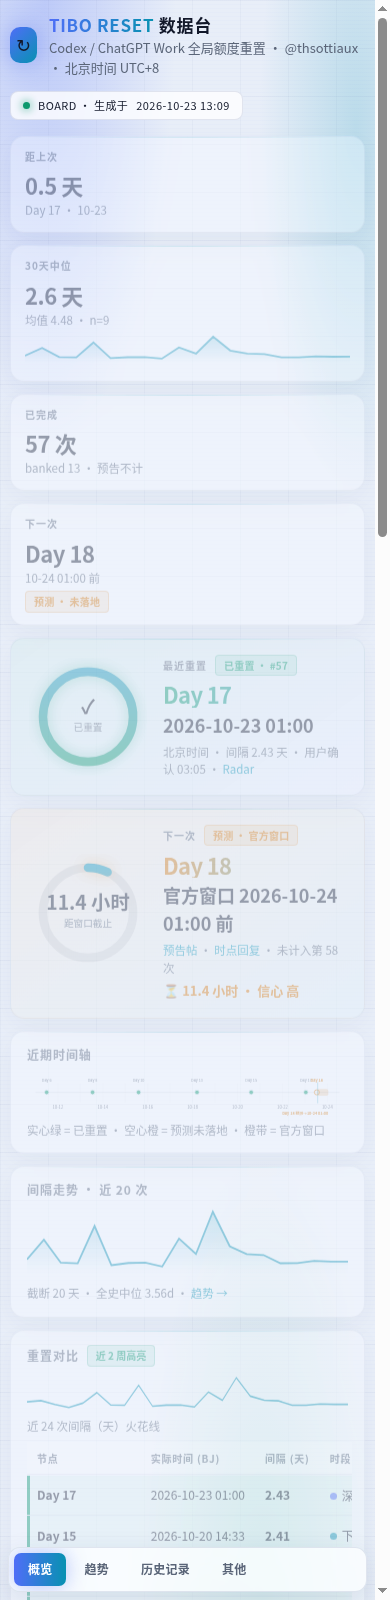
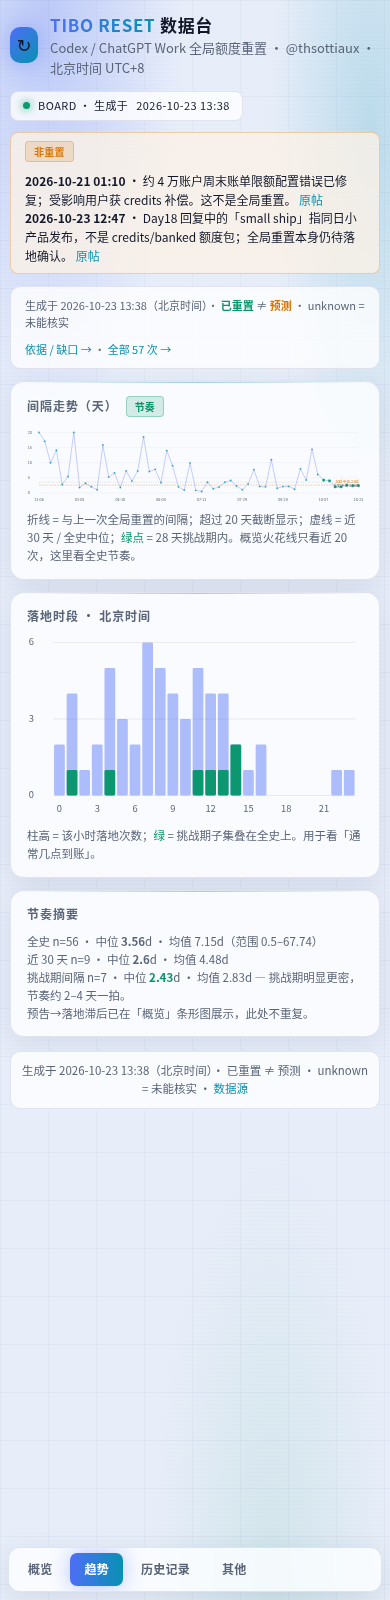
Trends: interval line + BJ hour histogram (replace weak bar chart)
Overview already has gap sparkline, comparison table, and teaser→lag bars.
Trends now shows full-history interval rhythm (line, challenge dots, dual medians)
and Beijing hour-of-day distribution — patterns the table does not show at a glance.

diff --git a/index.html b/index.html
@@ -127,7 +127,9 @@ details.fold{margin-top:6px}details.fold summary{cursor:pointer;color:var(--mut)
  <div data-tab="overview" class="banner" id="note"></div>
  <div data-tab="overview" class="ov-foot" id="ovfoot"></div>
  <!-- Other tabs -->
- <section data-tab="trend" class="c mag"><h2>重置间隔趋势（天）</h2><div id="chart"></div><div class="q">柱 = 与上一次全局重置的间隔（近 40 次）；虚线 = 近 30 天中位数；<span style="color:var(--ok)">绿色</span> = 28 天挑战期内；超过 20 天的柱被截断。banked reset 不计入。</div></section>
+ <section data-tab="trend" class="c mag s8"><h2>间隔走势（天） <span class="tag ok">节奏</span></h2><div id="chartGap"></div><div class="q">折线 = 与上一次全局重置的间隔；超过 20 天截断显示；虚线 = 近 30 天 / 全史中位；<span style="color:var(--ok)">绿点</span> = 28 天挑战期内。概览火花线只看近 20 次，这里看全史节奏。</div></section>
+ <section data-tab="trend" class="c mag s4"><h2>落地时段 · 北京时间</h2><div id="chartHour"></div><div class="q">柱高 = 该小时落地次数；<span style="color:var(--ok)">绿</span> = 挑战期子集叠在全史上。用于看「通常几点到账」。</div></section>
+ <section data-tab="trend" class="c mag"><h2>节奏摘要</h2><div id="trendSum" class="q"></div></section>
  <section data-tab="history" class="c"><h2>历史记录 <span class="q" id="cnt"></span></h2>
   <div class="flt" style="margin-bottom:10px"><button class="on" data-f="all">全部</button><button data-f="ch">有预告帖</button><button data-f="win">有官方窗口</button></div>
   <div class="tl" id="tb"></div></section>
@@ -1748,13 +1750,45 @@ $('#tb').innerHTML=pendHtml+ev.map(r=>`<div class="ev ${r.label&&r.label.startsW
 <div><div class="lab">实际时间</div>${r.actual_bj}<div class="q">${r.actual_basis}</div>${r.confirmation?`<div class="q">确认 ${lk(r.confirmation.url,r.confirmation.time_bj)}</div>`:''}${r.lag_teaser_h!=null?`<div class="q">预告后 ${r.lag_teaser_h} h</div>`:''}</div>
 <div><div class="lab">偏差</div>${fmt(r.dev_h)}<div class="lab" style="margin-top:4px">间隔</div>${r.gap_days!=null?r.gap_days+' 天':'—'}</div></div>`).join('')}
 rows('all');document.querySelectorAll('.flt button').forEach(b=>b.onclick=()=>{document.querySelectorAll('.flt button').forEach(x=>x.classList.remove('on'));b.classList.add('on');rows(b.dataset.f)});
-// Chart
-const g=D.events.filter(r=>r.gap_days!=null).slice(-40),W=1100,H=220,pl=28,pb=32,mx=Math.min(20,Math.max(...g.map(r=>r.gap_days))),bw=(W-pl)/g.length,y=v=>H-pb-(Math.min(v,mx)/mx)*(H-pb-8);
-let s=`<svg viewBox="0 0 ${W} ${H}" width="100%"><defs><linearGradient id="gr" x1="0" y1="0" x2="0" y2="1"><stop offset="0" stop-color="var(--acc2)"/><stop offset="1" stop-color="var(--acc)"/></linearGradient></defs>`;
-[0,5,10,15,20].filter(t=>t<=mx).forEach(t=>s+=`<line x1=${pl} x2=${W} y1=${y(t)} y2=${y(t)} stroke="currentColor" opacity=".08"/><text x=0 y=${y(t)+3}>${t}</text>`);
-g.forEach((r,i)=>{const x=pl+i*bw;s+=`<rect x=${x+1.5} y=${y(r.gap_days)} width=${bw-3} height=${H-pb-y(r.gap_days)} rx=2 fill="${r.label&&r.label.startsWith('Day')?'var(--ok)':'url(#gr)'}"><title>${r.actual_bj}：${r.gap_days} 天</title></rect>`;if(i%4==0||i==g.length-1)s+=`<text x=${x} y=${H-16}>${r.actual_bj.slice(5,10)}</text>`});
-s+=`<line x1=${pl} x2=${W} y1=${y(S.median)} y2=${y(S.median)} stroke="var(--warn)" stroke-dasharray="4 3"/><text x=${W-120} y=${y(S.median)-4} style="fill:var(--warn)">30天中位 ${S.median}d</text></svg>`;
-$('#chart').innerHTML=s;
+// Trend charts — interval line + BJ hour histogram (complement overview; not a duplicate of 对比表)
+{const gaps=D.events.filter(r=>r.gap_days!=null);
+ const W=900,H=210,pl=32,pr=12,pt=12,pb=36,mx=20;
+ const x=i=>pl+i/(gaps.length-1||1)*(W-pl-pr);
+ const y=v=>pt+(1-Math.min(v,mx)/mx)*(H-pt-pb);
+ let s=`<svg viewBox="0 0 ${W} ${H}" width="100%" role="img" aria-label="重置间隔折线">`;
+ [0,5,10,15,20].forEach(t=>s+=`<line x1=${pl} x2=${W-pr} y1=${y(t)} y2=${y(t)} stroke="currentColor" opacity=".08"/><text x=2 y=${y(t)+3}>${t}</text>`);
+ const pts=gaps.map((r,i)=>`${x(i)},${y(r.gap_days)}`).join(' ');
+ s+=`<polyline fill="none" stroke="var(--acc)" stroke-width="1.6" opacity=".55" points="${pts}"/>`;
+ gaps.forEach((r,i)=>{const ch=(r.label||'').startsWith('Day');
+  s+=`<circle cx=${x(i)} cy=${y(r.gap_days)} r="${ch?4.2:2.6}" fill="${ch?'var(--ok)':'var(--acc2)'}" stroke="var(--bg)" stroke-width="1"><title>${r.actual_bj} ${(r.label||'')}：${r.gap_days} 天</title></circle>`;
+  if(i%Math.max(1,Math.floor(gaps.length/8))===0||i===gaps.length-1)s+=`<text x=${x(i)} y=${H-14} text-anchor="middle">${r.actual_bj.slice(5,10)}</text>`;
+ });
+ s+=`<line x1=${pl} x2=${W-pr} y1=${y(S.median)} y2=${y(S.median)} stroke="var(--warn)" stroke-dasharray="4 3"/>`;
+ s+=`<text x=${W-pr} y=${y(S.median)-5} text-anchor="end" style="fill:var(--warn)">30d 中位 ${S.median}d</text>`;
+ s+=`<line x1=${pl} x2=${W-pr} y1=${y(A.median)} y2=${y(A.median)} stroke="var(--mut)" stroke-dasharray="2 4" opacity=".7"/>`;
+ s+=`<text x=${W-pr} y=${y(A.median)+12} text-anchor="end" style="fill:var(--mut)">全史中位 ${A.median}d</text></svg>`;
+ $('#chartGap').innerHTML=s;
+ const chGaps=gaps.filter(r=>(r.label||'').startsWith('Day')).map(r=>r.gap_days);
+ const chMed=chGaps.length?chGaps.slice().sort((a,b)=>a-b)[Math.floor(chGaps.length/2)]:null;
+ $('#trendSum').innerHTML=`全史 n=${gaps.length} · 中位 <b>${A.median}</b>d · 均值 ${A.mean}d（范围 ${A.min}–${A.max}）<br>
+近 30 天 n=${S.n} · 中位 <b>${S.median}</b>d · 均值 ${S.mean}d<br>
+挑战期间隔 n=${chGaps.length}${chMed!=null?` · 中位 <b style="color:var(--ok)">${chMed}</b>d · 均值 ${(chGaps.reduce((a,b)=>a+b,0)/chGaps.length).toFixed(2)}d`:''} — 挑战期明显更密，节奏约 2–4 天一拍。<br>
+<span class="q">预告→落地滞后已在「概览」条形图展示，此处不重复。</span>`;}
+
+{const hours=Array.from({length:24},(_,h)=>h);
+ const all=hours.map(h=>0), ch=hours.map(h=>0);
+ D.events.forEach(r=>{const h=parseInt((r.actual_bj||'').slice(11,13),10);if(isNaN(h))return;all[h]++;if((r.label||'').startsWith('Day'))ch[h]++});
+ const mx=Math.max(...all,1),W=360,H=200,pl=28,pb=28,pt=8,pr=8,bw=(W-pl-pr)/24;
+ const y=v=>pt+(1-v/mx)*(H-pt-pb);
+ let s=`<svg viewBox="0 0 ${W} ${H}" width="100%" role="img" aria-label="北京时间落地小时分布">`;
+ [0,Math.ceil(mx/2),mx].filter((v,i,a)=>a.indexOf(v)===i).forEach(t=>s+=`<line x1=${pl} x2=${W-pr} y1=${y(t)} y2=${y(t)} stroke="currentColor" opacity=".08"/><text x=2 y=${y(t)+3}>${t}</text>`);
+ hours.forEach(h=>{const x=pl+h*bw;
+  s+=`<rect x=${x+1} y=${y(all[h])} width=${bw-2} height=${Math.max(0,H-pb-y(all[h]))} rx=1.5 fill="var(--acc)" opacity=".45"><title>${h}:00 BJ · 全史 ${all[h]} 次</title></rect>`;
+  if(ch[h])s+=`<rect x=${x+1} y=${y(ch[h])} width=${bw-2} height=${Math.max(0,H-pb-y(ch[h]))} rx=1.5 fill="var(--ok)" opacity=".95"><title>${h}:00 BJ · 挑战期 ${ch[h]} 次</title></rect>`;
+  if(h%3===0)s+=`<text x=${x+bw/2} y=${H-10} text-anchor="middle">${h}</text>`;
+ });
+ s+=`</svg>`;
+ $('#chartHour').innerHTML=s;}
 $('#bk').innerHTML=D.banked.map(b=>`<div><b>${b.date_bj}</b> · ${b.summary}<br>${b.url?lk(b.url,'原帖'):'<span class="u">无 X 原帖（Radar 实测）</span>'}</div>`).join('');
 $('#gaps').innerHTML=D.gaps.map(x=>`<li>${x}</li>`).join('');
 $('#nr').innerHTML=`<h2>近期非重置公告</h2>${(D.non_reset||[]).map(n=>`<div class="q" style="margin-bottom:8px"><b>${n.date_bj}</b> · ${n.kind||''}<br>${n.summary}<br>${lk(n.url,'原帖')} · <span class="tag">未计入全局重置</span></div>`).join('')||'<div class="q">暂无</div>'}`;

diff --git a/tpl.html b/tpl.html
@@ -127,7 +127,9 @@ details.fold{margin-top:6px}details.fold summary{cursor:pointer;color:var(--mut)
  <div data-tab="overview" class="banner" id="note"></div>
  <div data-tab="overview" class="ov-foot" id="ovfoot"></div>
  <!-- Other tabs -->
- <section data-tab="trend" class="c mag"><h2>重置间隔趋势（天）</h2><div id="chart"></div><div class="q">柱 = 与上一次全局重置的间隔（近 40 次）；虚线 = 近 30 天中位数；<span style="color:var(--ok)">绿色</span> = 28 天挑战期内；超过 20 天的柱被截断。banked reset 不计入。</div></section>
+ <section data-tab="trend" class="c mag s8"><h2>间隔走势（天） <span class="tag ok">节奏</span></h2><div id="chartGap"></div><div class="q">折线 = 与上一次全局重置的间隔；超过 20 天截断显示；虚线 = 近 30 天 / 全史中位；<span style="color:var(--ok)">绿点</span> = 28 天挑战期内。概览火花线只看近 20 次，这里看全史节奏。</div></section>
+ <section data-tab="trend" class="c mag s4"><h2>落地时段 · 北京时间</h2><div id="chartHour"></div><div class="q">柱高 = 该小时落地次数；<span style="color:var(--ok)">绿</span> = 挑战期子集叠在全史上。用于看「通常几点到账」。</div></section>
+ <section data-tab="trend" class="c mag"><h2>节奏摘要</h2><div id="trendSum" class="q"></div></section>
  <section data-tab="history" class="c"><h2>历史记录 <span class="q" id="cnt"></span></h2>
   <div class="flt" style="margin-bottom:10px"><button class="on" data-f="all">全部</button><button data-f="ch">有预告帖</button><button data-f="win">有官方窗口</button></div>
   <div class="tl" id="tb"></div></section>
@@ -275,13 +277,45 @@ $('#tb').innerHTML=pendHtml+ev.map(r=>`<div class="ev ${r.label&&r.label.startsW
 <div><div class="lab">实际时间</div>${r.actual_bj}<div class="q">${r.actual_basis}</div>${r.confirmation?`<div class="q">确认 ${lk(r.confirmation.url,r.confirmation.time_bj)}</div>`:''}${r.lag_teaser_h!=null?`<div class="q">预告后 ${r.lag_teaser_h} h</div>`:''}</div>
 <div><div class="lab">偏差</div>${fmt(r.dev_h)}<div class="lab" style="margin-top:4px">间隔</div>${r.gap_days!=null?r.gap_days+' 天':'—'}</div></div>`).join('')}
 rows('all');document.querySelectorAll('.flt button').forEach(b=>b.onclick=()=>{document.querySelectorAll('.flt button').forEach(x=>x.classList.remove('on'));b.classList.add('on');rows(b.dataset.f)});
-// Chart
-const g=D.events.filter(r=>r.gap_days!=null).slice(-40),W=1100,H=220,pl=28,pb=32,mx=Math.min(20,Math.max(...g.map(r=>r.gap_days))),bw=(W-pl)/g.length,y=v=>H-pb-(Math.min(v,mx)/mx)*(H-pb-8);
-let s=`<svg viewBox="0 0 ${W} ${H}" width="100%"><defs><linearGradient id="gr" x1="0" y1="0" x2="0" y2="1"><stop offset="0" stop-color="var(--acc2)"/><stop offset="1" stop-color="var(--acc)"/></linearGradient></defs>`;
-[0,5,10,15,20].filter(t=>t<=mx).forEach(t=>s+=`<line x1=${pl} x2=${W} y1=${y(t)} y2=${y(t)} stroke="currentColor" opacity=".08"/><text x=0 y=${y(t)+3}>${t}</text>`);
-g.forEach((r,i)=>{const x=pl+i*bw;s+=`<rect x=${x+1.5} y=${y(r.gap_days)} width=${bw-3} height=${H-pb-y(r.gap_days)} rx=2 fill="${r.label&&r.label.startsWith('Day')?'var(--ok)':'url(#gr)'}"><title>${r.actual_bj}：${r.gap_days} 天</title></rect>`;if(i%4==0||i==g.length-1)s+=`<text x=${x} y=${H-16}>${r.actual_bj.slice(5,10)}</text>`});
-s+=`<line x1=${pl} x2=${W} y1=${y(S.median)} y2=${y(S.median)} stroke="var(--warn)" stroke-dasharray="4 3"/><text x=${W-120} y=${y(S.median)-4} style="fill:var(--warn)">30天中位 ${S.median}d</text></svg>`;
-$('#chart').innerHTML=s;
+// Trend charts — interval line + BJ hour histogram (complement overview; not a duplicate of 对比表)
+{const gaps=D.events.filter(r=>r.gap_days!=null);
+ const W=900,H=210,pl=32,pr=12,pt=12,pb=36,mx=20;
+ const x=i=>pl+i/(gaps.length-1||1)*(W-pl-pr);
+ const y=v=>pt+(1-Math.min(v,mx)/mx)*(H-pt-pb);
+ let s=`<svg viewBox="0 0 ${W} ${H}" width="100%" role="img" aria-label="重置间隔折线">`;
+ [0,5,10,15,20].forEach(t=>s+=`<line x1=${pl} x2=${W-pr} y1=${y(t)} y2=${y(t)} stroke="currentColor" opacity=".08"/><text x=2 y=${y(t)+3}>${t}</text>`);
+ const pts=gaps.map((r,i)=>`${x(i)},${y(r.gap_days)}`).join(' ');
+ s+=`<polyline fill="none" stroke="var(--acc)" stroke-width="1.6" opacity=".55" points="${pts}"/>`;
+ gaps.forEach((r,i)=>{const ch=(r.label||'').startsWith('Day');
+  s+=`<circle cx=${x(i)} cy=${y(r.gap_days)} r="${ch?4.2:2.6}" fill="${ch?'var(--ok)':'var(--acc2)'}" stroke="var(--bg)" stroke-width="1"><title>${r.actual_bj} ${(r.label||'')}：${r.gap_days} 天</title></circle>`;
+  if(i%Math.max(1,Math.floor(gaps.length/8))===0||i===gaps.length-1)s+=`<text x=${x(i)} y=${H-14} text-anchor="middle">${r.actual_bj.slice(5,10)}</text>`;
+ });
+ s+=`<line x1=${pl} x2=${W-pr} y1=${y(S.median)} y2=${y(S.median)} stroke="var(--warn)" stroke-dasharray="4 3"/>`;
+ s+=`<text x=${W-pr} y=${y(S.median)-5} text-anchor="end" style="fill:var(--warn)">30d 中位 ${S.median}d</text>`;
+ s+=`<line x1=${pl} x2=${W-pr} y1=${y(A.median)} y2=${y(A.median)} stroke="var(--mut)" stroke-dasharray="2 4" opacity=".7"/>`;
+ s+=`<text x=${W-pr} y=${y(A.median)+12} text-anchor="end" style="fill:var(--mut)">全史中位 ${A.median}d</text></svg>`;
+ $('#chartGap').innerHTML=s;
+ const chGaps=gaps.filter(r=>(r.label||'').startsWith('Day')).map(r=>r.gap_days);
+ const chMed=chGaps.length?chGaps.slice().sort((a,b)=>a-b)[Math.floor(chGaps.length/2)]:null;
+ $('#trendSum').innerHTML=`全史 n=${gaps.length} · 中位 <b>${A.median}</b>d · 均值 ${A.mean}d（范围 ${A.min}–${A.max}）<br>
+近 30 天 n=${S.n} · 中位 <b>${S.median}</b>d · 均值 ${S.mean}d<br>
+挑战期间隔 n=${chGaps.length}${chMed!=null?` · 中位 <b style="color:var(--ok)">${chMed}</b>d · 均值 ${(chGaps.reduce((a,b)=>a+b,0)/chGaps.length).toFixed(2)}d`:''} — 挑战期明显更密，节奏约 2–4 天一拍。<br>
+<span class="q">预告→落地滞后已在「概览」条形图展示，此处不重复。</span>`;}
+
+{const hours=Array.from({length:24},(_,h)=>h);
+ const all=hours.map(h=>0), ch=hours.map(h=>0);
+ D.events.forEach(r=>{const h=parseInt((r.actual_bj||'').slice(11,13),10);if(isNaN(h))return;all[h]++;if((r.label||'').startsWith('Day'))ch[h]++});
+ const mx=Math.max(...all,1),W=360,H=200,pl=28,pb=28,pt=8,pr=8,bw=(W-pl-pr)/24;
+ const y=v=>pt+(1-v/mx)*(H-pt-pb);
+ let s=`<svg viewBox="0 0 ${W} ${H}" width="100%" role="img" aria-label="北京时间落地小时分布">`;
+ [0,Math.ceil(mx/2),mx].filter((v,i,a)=>a.indexOf(v)===i).forEach(t=>s+=`<line x1=${pl} x2=${W-pr} y1=${y(t)} y2=${y(t)} stroke="currentColor" opacity=".08"/><text x=2 y=${y(t)+3}>${t}</text>`);
+ hours.forEach(h=>{const x=pl+h*bw;
+  s+=`<rect x=${x+1} y=${y(all[h])} width=${bw-2} height=${Math.max(0,H-pb-y(all[h]))} rx=1.5 fill="var(--acc)" opacity=".45"><title>${h}:00 BJ · 全史 ${all[h]} 次</title></rect>`;
+  if(ch[h])s+=`<rect x=${x+1} y=${y(ch[h])} width=${bw-2} height=${Math.max(0,H-pb-y(ch[h]))} rx=1.5 fill="var(--ok)" opacity=".95"><title>${h}:00 BJ · 挑战期 ${ch[h]} 次</title></rect>`;
+  if(h%3===0)s+=`<text x=${x+bw/2} y=${H-10} text-anchor="middle">${h}</text>`;
+ });
+ s+=`</svg>`;
+ $('#chartHour').innerHTML=s;}
 $('#bk').innerHTML=D.banked.map(b=>`<div><b>${b.date_bj}</b> · ${b.summary}<br>${b.url?lk(b.url,'原帖'):'<span class="u">无 X 原帖（Radar 实测）</span>'}</div>`).join('');
 $('#gaps').innerHTML=D.gaps.map(x=>`<li>${x}</li>`).join('');
 $('#nr').innerHTML=`<h2>近期非重置公告</h2>${(D.non_reset||[]).map(n=>`<div class="q" style="margin-bottom:8px"><b>${n.date_bj}</b> · ${n.kind||''}<br>${n.summary}<br>${lk(n.url,'原帖')} · <span class="tag">未计入全局重置</span></div>`).join('')||'<div class="q">暂无</div>'}`;
